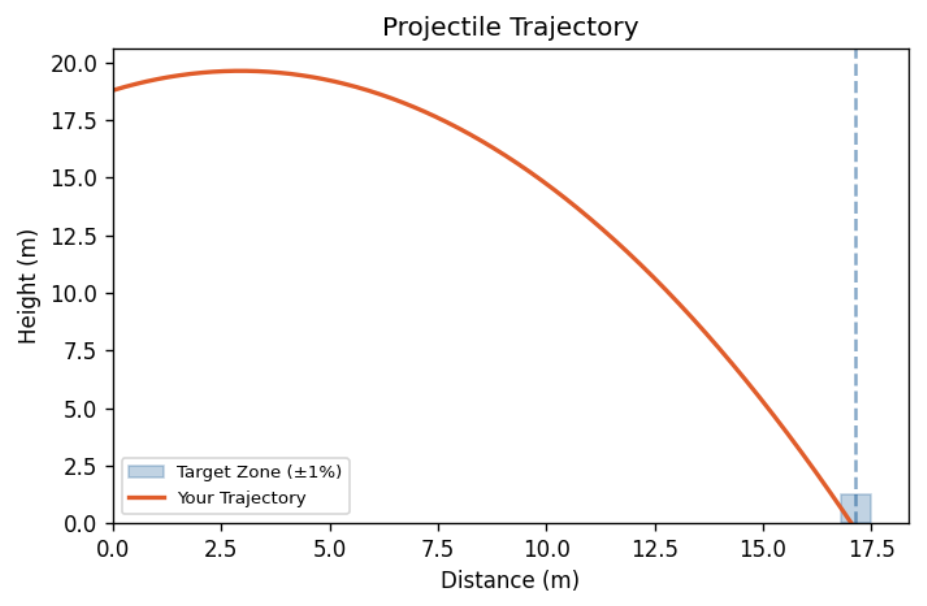
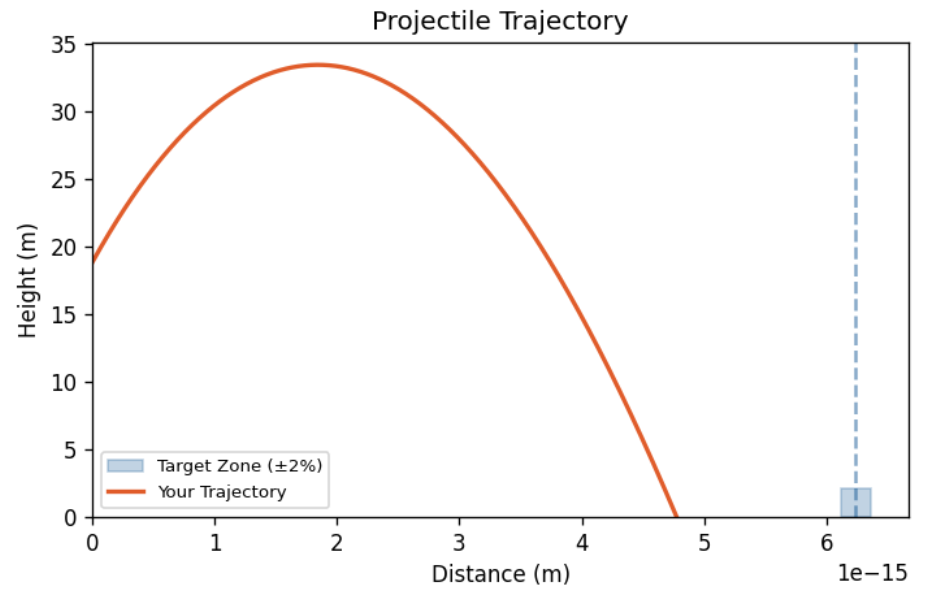
web3

diff --git a/frontend/game.html b/frontend/game.html
@@ -98,9 +98,9 @@
     <script>
         let gameState = null;
         const sliderConfig = {
-            ivelocity: { min: 0,   max: 40,  step: 0.01,  unit: "m/s",  label: "Initial Velocity" },
-            iheight:   { min: 0,   max: 20,  step: 0.01,  unit: "m",    label: "Initial Height" },
-            iangle:    { min: -90, max: 90,  step: 0.01,    unit: "°",    label: "Launch Angle" },
+            ivelocity: { min: 0,   max: 40,  step: 0.01, unit: "m/s",  label: "Initial Velocity" },
+            iheight:   { min: 0,   max: 20,  step: 0.01, unit: "m",    label: "Initial Height" },
+            iangle:    { min: -90, max: 90,  step: 0.01, unit: "°",    label: "Launch Angle" },
             gravity:   { min: 0,   max: 20,  step: 0.01, unit: "m/s²", label: "Ambient Gravity" }
         };
         const aeroLabels = {
@@ -137,7 +137,7 @@
             allVars.forEach(v => {
                 const slider = document.getElementById(v);
                 const label  = document.getElementById(v + "_label");
-                if (v === gameState.indep_unknown) {
+                if (v === gameState.hidden_var) {
                     const cfg = sliderConfig[v];
                     slider.min      = cfg.min;
                     slider.max      = cfg.max;
@@ -150,8 +150,8 @@
                     };
                 } else {
                     slider.disabled   = true;
-                    slider.value      = gameState.indep_given[v];
-                    label.textContent = parseFloat(gameState.indep_given[v]).toFixed(2) + " " + units[v];
+                    slider.value      = gameState.known_vars[v];
+                    label.textContent = parseFloat(gameState.known_vars[v]).toFixed(2) + " " + units[v];
                 }
             });
             document.getElementById("locked-aeropreset").textContent = aeroLabels[gameState.aeropreset] || gameState.aeropreset;
@@ -170,15 +170,15 @@
             document.getElementById("graph-placeholder").style.display = "flex";
             document.getElementById("graph-loading").textContent = "Running simulation...";
             document.getElementById("graph-img").style.display = "none";
-            const slider  = document.getElementById(gameState.indep_unknown);
+            const slider  = document.getElementById(gameState.hidden_var);
             const attempt = parseFloat(slider.value);
             const res = await fetch("/game_run", {
                 method: "POST",
                 headers: { "Content-Type": "application/json" },
                 body: JSON.stringify({
-                    indep_unknown:    gameState.indep_unknown,
+                    hidden_var:    gameState.hidden_var,
                     attempt_value: attempt,
-                    indep_given:    gameState.indep_given,
+                    known_vars:    gameState.known_vars,
                     target:        gameState.target,
                     gametype:      gameState.gametype,
                     aeropreset:    gameState.aeropreset,
@@ -203,8 +203,8 @@
         function newGame() {
             const lastAttempt = gameState ? gameState.lastAttempt ?? null : null;
             const prevState   = gameState ? {
-                indep_given: gameState.indep_given,
-                indep_unknown: gameState.indep_unknown,
+                known_vars: gameState.known_vars,
+                hidden_var: gameState.hidden_var,
                 aeropreset: gameState.aeropreset,
                 denpreset:  gameState.denpreset,
                 gametype:   gameState.gametype

diff --git a/frontend/gameindex.html b/frontend/gameindex.html
@@ -29,7 +29,7 @@
     <a href = "game.html" id = "run-game">
         <button id = "button">Run Game</button>
         <div id = "privacy">
-            <img src = "images/shield2.png" id = "shield" alt = "Privacy shield">
+            <img src = "images/shield.png" id = "shield" alt = "Privacy shield">
             <p id = "privacy-text">No sign-up required. Free to use.</p>
         </div>
     </a>

diff --git a/frontend/index.html b/frontend/index.html
@@ -28,7 +28,7 @@
     <a href = "sim.html" id = "run-link">
         <button id = "button">Run Sim</button>
         <div id = "privacy">
-            <img src = "images/shield2.png" id = "shield" alt = "Privacy shield">
+            <img src = "images/shield.png" id = "shield" alt = "Privacy shield">
             <p id = "privacy-text">No sign-up required. Free to use.</p>
         </div>
     </a>

diff --git a/backend/solver.py b/backend/solver.py
@@ -4,10 +4,9 @@ def iterative_solve(true_ivelocity, true_iheight, true_iangle, true_gravity, tru
     uncertainty = 1
     iterations = 0
 
-    if not bool(true_ivelocity):
+    if true_ivelocity == "":
         experimental_ivelocity = 20
         search_step = 10
-
         if bool(true_distance):
             true_distance = float(true_distance)
             while abs(uncertainty) > 0.001 and iterations < 100:
@@ -20,7 +19,6 @@ def iterative_solve(true_ivelocity, true_iheight, true_iangle, true_gravity, tru
                 search_step /= 2
                 iterations += 1
                 uncertainty = (trial_distance - true_distance) / true_distance
-
         if bool(true_maxheight):
             true_maxheight = float(true_maxheight)
             while abs(uncertainty) > 0.001 and iterations < 100:
@@ -33,7 +31,6 @@ def iterative_solve(true_ivelocity, true_iheight, true_iangle, true_gravity, tru
                 search_step /= 2
                 iterations += 1
                 uncertainty = (trial_maxheight - true_maxheight) / true_maxheight
-
         elif bool(true_time):
             true_time = float(true_time)
             while abs(uncertainty) > 0.001 and iterations < 100:
@@ -46,7 +43,6 @@ def iterative_solve(true_ivelocity, true_iheight, true_iangle, true_gravity, tru
                 search_step /= 2
                 iterations += 1
                 uncertainty = (trial_time - true_time) / true_time
-
         elif bool(true_fvelocity):
             true_fvelocity = float(true_fvelocity)
             while abs(uncertainty) > 0.001 and iterations < 100:
@@ -56,20 +52,17 @@ def iterative_solve(true_ivelocity, true_iheight, true_iangle, true_gravity, tru
                     experimental_ivelocity -= search_step
                 elif trial_fvelocity < true_fvelocity:
                     experimental_ivelocity += search_step
-
                 search_step /= 2
                 iterations += 1
                 uncertainty = (trial_fvelocity - true_fvelocity) / true_fvelocity
-
         result_ivelocity = experimental_ivelocity
         result_iheight = true_iheight
         result_iangle = true_iangle
         result_gravity = true_gravity
 
-    elif not bool(true_iheight):
+    elif true_iheight == "":
         experimental_iheight = 100
         search_step = 50
-
         if bool(true_distance):
             true_distance = float(true_distance)
             while abs(uncertainty) > 0.001 and iterations < 100:
@@ -82,7 +75,6 @@ def iterative_solve(true_ivelocity, true_iheight, true_iangle, true_gravity, tru
                 search_step /= 2
                 iterations += 1
                 uncertainty = (trial_distance - true_distance) / true_distance
-
         elif bool(true_maxheight):
             true_maxheight = float(true_maxheight)
             experimental_iheight = 100
@@ -97,7 +89,6 @@ def iterative_solve(true_ivelocity, true_iheight, true_iangle, true_gravity, tru
                 search_step /= 2
                 iterations += 1
                 uncertainty = (trial_maxheight - true_maxheight) / true_maxheight
-
         elif bool(true_time):
             true_time = float(true_time)
             while abs(uncertainty) > 0.001 and iterations < 100:
@@ -110,7 +101,6 @@ def iterative_solve(true_ivelocity, true_iheight, true_iangle, true_gravity, tru
                 search_step /= 2
                 iterations += 1
                 uncertainty = (trial_time - true_time) / true_time
-
         elif bool(true_fvelocity):
             true_fvelocity = float(true_fvelocity)
             while abs(uncertainty) > 0.001 and iterations < 100:
@@ -123,16 +113,14 @@ def iterative_solve(true_ivelocity, true_iheight, true_iangle, true_gravity, tru
                 search_step /= 2
                 iterations += 1
                 uncertainty = (trial_fvelocity - true_fvelocity) / true_fvelocity
-
         result_ivelocity = true_ivelocity
         result_iheight = experimental_iheight
         result_iangle = true_iangle
         result_gravity = true_gravity
 
-    elif not bool(true_iangle):
+    elif true_iangle == "":
         experimental_iangle = 0
         search_step = 45
-
         if bool(true_distance):
             true_distance = float(true_distance)
             while abs(uncertainty) > 0.001 and iterations < 100:
@@ -145,7 +133,6 @@ def iterative_solve(true_ivelocity, true_iheight, true_iangle, true_gravity, tru
                 search_step /= 2
                 iterations += 1
                 uncertainty = (trial_distance - true_distance) / true_distance
-
         elif bool(true_maxheight):
             true_maxheight = float(true_maxheight)
             while abs(uncertainty) > 0.01 and iterations < 100:
@@ -158,7 +145,6 @@ def iterative_solve(true_ivelocity, true_iheight, true_iangle, true_gravity, tru
                 search_step /= 2
                 iterations += 1
                 uncertainty = (trial_maxheight - true_maxheight) / true_maxheight
-
         elif bool(true_time):
             true_time = float(true_time)
             while abs(uncertainty) > 0.001 and iterations < 100:
@@ -171,29 +157,14 @@ def iterative_solve(true_ivelocity, true_iheight, true_iangle, true_gravity, tru
                 search_step /= 2
                 iterations += 1
                 uncertainty = (trial_time - true_time) / true_time
-
-        elif bool(true_fvelocity):
-            true_fvelocity = float(true_fvelocity)
-            while abs(uncertainty) > 0.001 and iterations < 100:
-                list_height, list_distance, list_time, list_velocity, list_angle = simulation(true_ivelocity, true_iheight, experimental_iangle, true_gravity, true_mass, true_density, true_cd, true_area)
-                trial_fvelocity = list_velocity[-1]
-                if trial_fvelocity > true_fvelocity:
-                    experimental_iangle -= search_step
-                elif trial_fvelocity < true_fvelocity:
-                    experimental_iangle += search_step
-                search_step /= 2
-                iterations += 1
-                uncertainty = (trial_fvelocity - true_fvelocity) / true_fvelocity
-
         result_ivelocity = true_ivelocity
         result_iheight = true_iheight
         result_iangle = experimental_iangle
         result_gravity = true_gravity
 
-    elif not bool(true_gravity):
+    elif true_gravity == "":
         experimental_gravity = 25
         search_step = 12.5
-
         if bool(true_distance):
             true_distance = float(true_distance)
             while abs(uncertainty) > 0.001 and iterations < 100:
@@ -206,7 +177,6 @@ def iterative_solve(true_ivelocity, true_iheight, true_iangle, true_gravity, tru
                 search_step /= 2
                 iterations += 1
                 uncertainty = (trial_distance - true_distance) / true_distance
-
         elif bool(true_maxheight):
             true_maxheight = float(true_maxheight)
             while abs(uncertainty) > 0.001 and iterations < 100:
@@ -219,7 +189,6 @@ def iterative_solve(true_ivelocity, true_iheight, true_iangle, true_gravity, tru
                 search_step /= 2
                 iterations += 1
                 uncertainty = (trial_maxheight - true_maxheight) / true_maxheight
-
         elif bool(true_time):
             true_time = float(true_time)
             while abs(uncertainty) > 0.001 and iterations < 100:
@@ -232,10 +201,9 @@ def iterative_solve(true_ivelocity, true_iheight, true_iangle, true_gravity, tru
                 search_step /= 2
                 iterations += 1
                 uncertainty = (trial_time - true_time) / true_time
-
         result_ivelocity = true_ivelocity
         result_iheight = true_iheight
         result_iangle = true_iangle
         result_gravity = experimental_gravity
-        
+
     return result_ivelocity, result_iheight, result_iangle, result_gravity, uncertainty, iterations

diff --git a/backend/main.py b/backend/main.py
@@ -59,16 +59,16 @@ def main():
         true_area = 0.00126
     if not bool(true_mass):
         true_mass = 0.0027
-    if bool(true_ivelocity):
+    if true_ivelocity != "":
         result_ivelocity = true_ivelocity
         nindependent += 1
-    if bool(true_iheight):
+    if true_iheight != "":
         result_iheight = true_iheight
         nindependent += 1
-    if bool(true_iangle):
+    if true_iangle != "":
         result_iangle = true_iangle
         nindependent += 1
-    if bool(true_gravity):
+    if true_gravity != "":
         result_gravity = true_gravity
         nindependent += 1
     if bool(true_distance):
@@ -93,14 +93,17 @@ def main():
     elif nindependent == 3 and ndependent == 0:
         print(json.dumps({"error": "Insufficient data: provide at least 1 dependent variable.", "prints": [], "graph1": "", "graph2": ""}))
         return
-    elif ndependent == 1 and not bool(true_gravity) and bool(true_fvelocity):
+    elif ndependent == 1 and bool(true_fvelocity) and bool(true_iangle):
+        print(json.dumps({"error": "Specific case: missing variables cannot be inferred.", "prints": [], "graph1": "", "graph2": ""}))
+        return
+    elif ndependent == 1 and bool(true_fvelocity) and bool(true_gravity):
         print(json.dumps({"error": "Specific case: missing variables cannot be inferred.", "prints": [], "graph1": "", "graph2": ""}))
         return
     elif bool(true_fvelocity) and bool(true_ivelocity):
         if true_fvelocity > true_ivelocity:
             print(json.dumps({"error": "Impossible scenario: total velocity cannot increase during projectile motion.", "prints": [], "graph1": "", "graph2": ""}))
             return
-    elif nindependent == 4:
+    if nindependent == 4:
         result_ivelocity = true_ivelocity
         result_iheight = true_iheight
         result_iangle = true_iangle